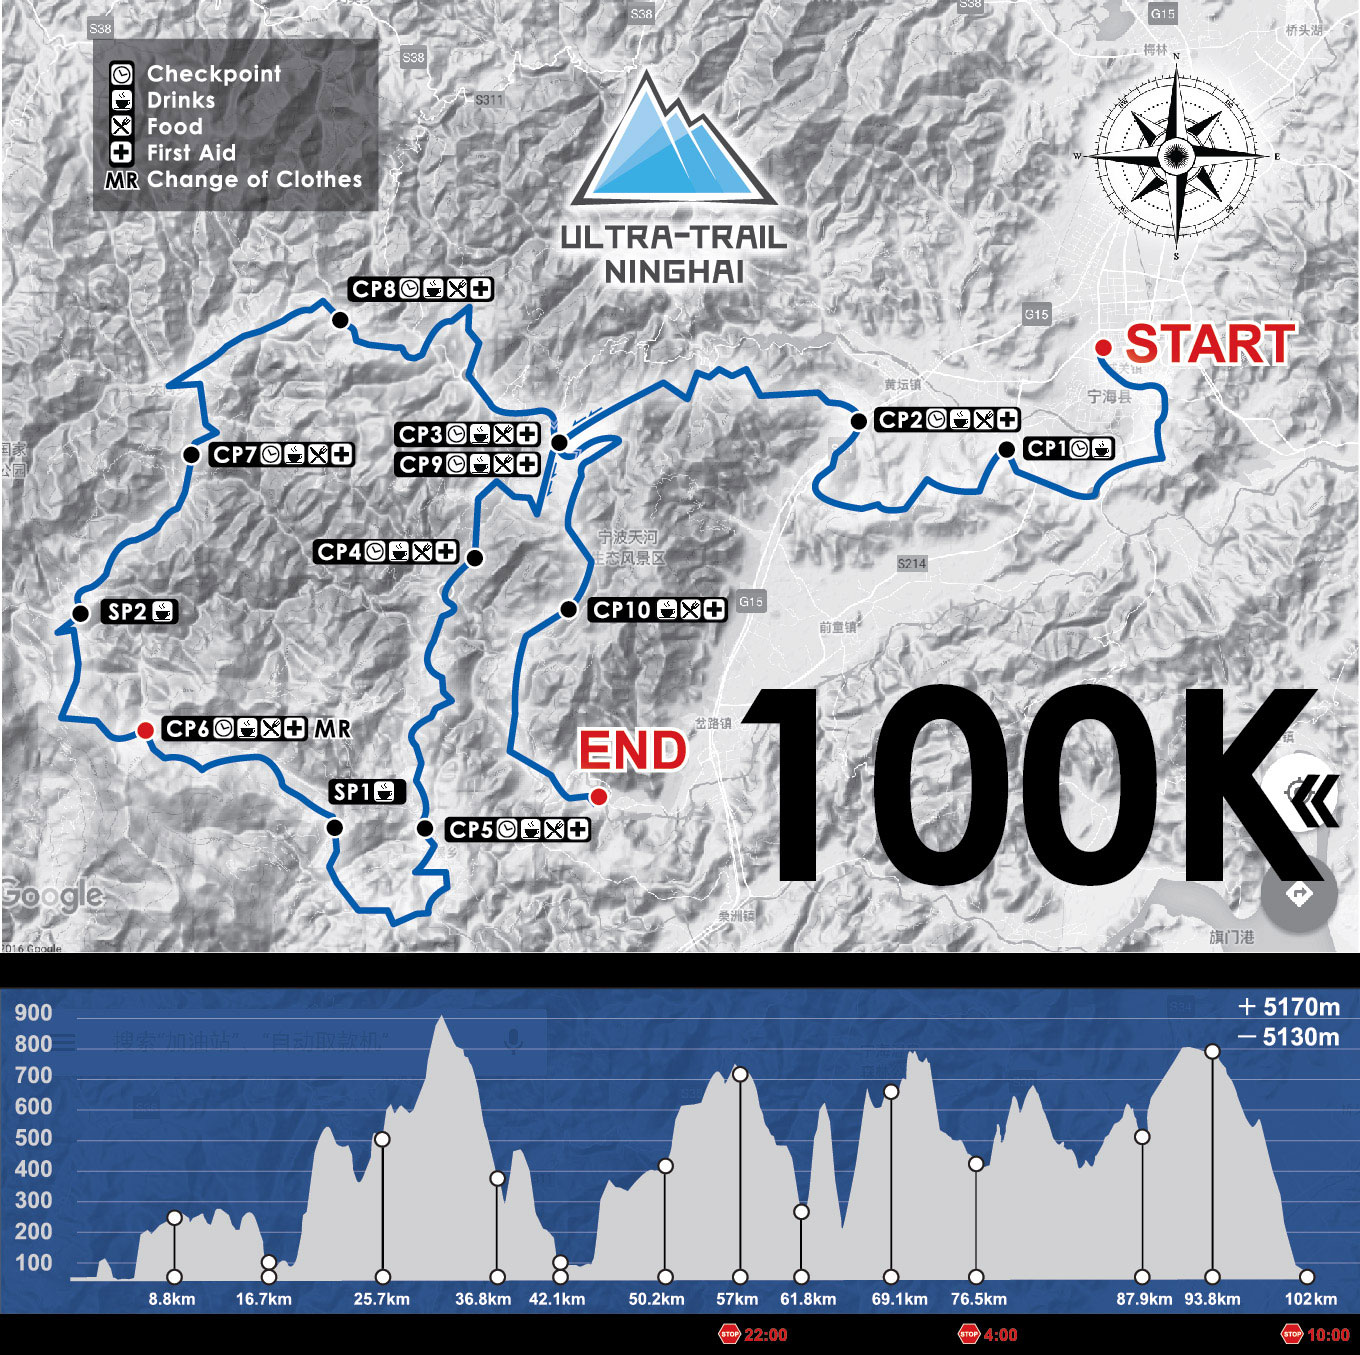
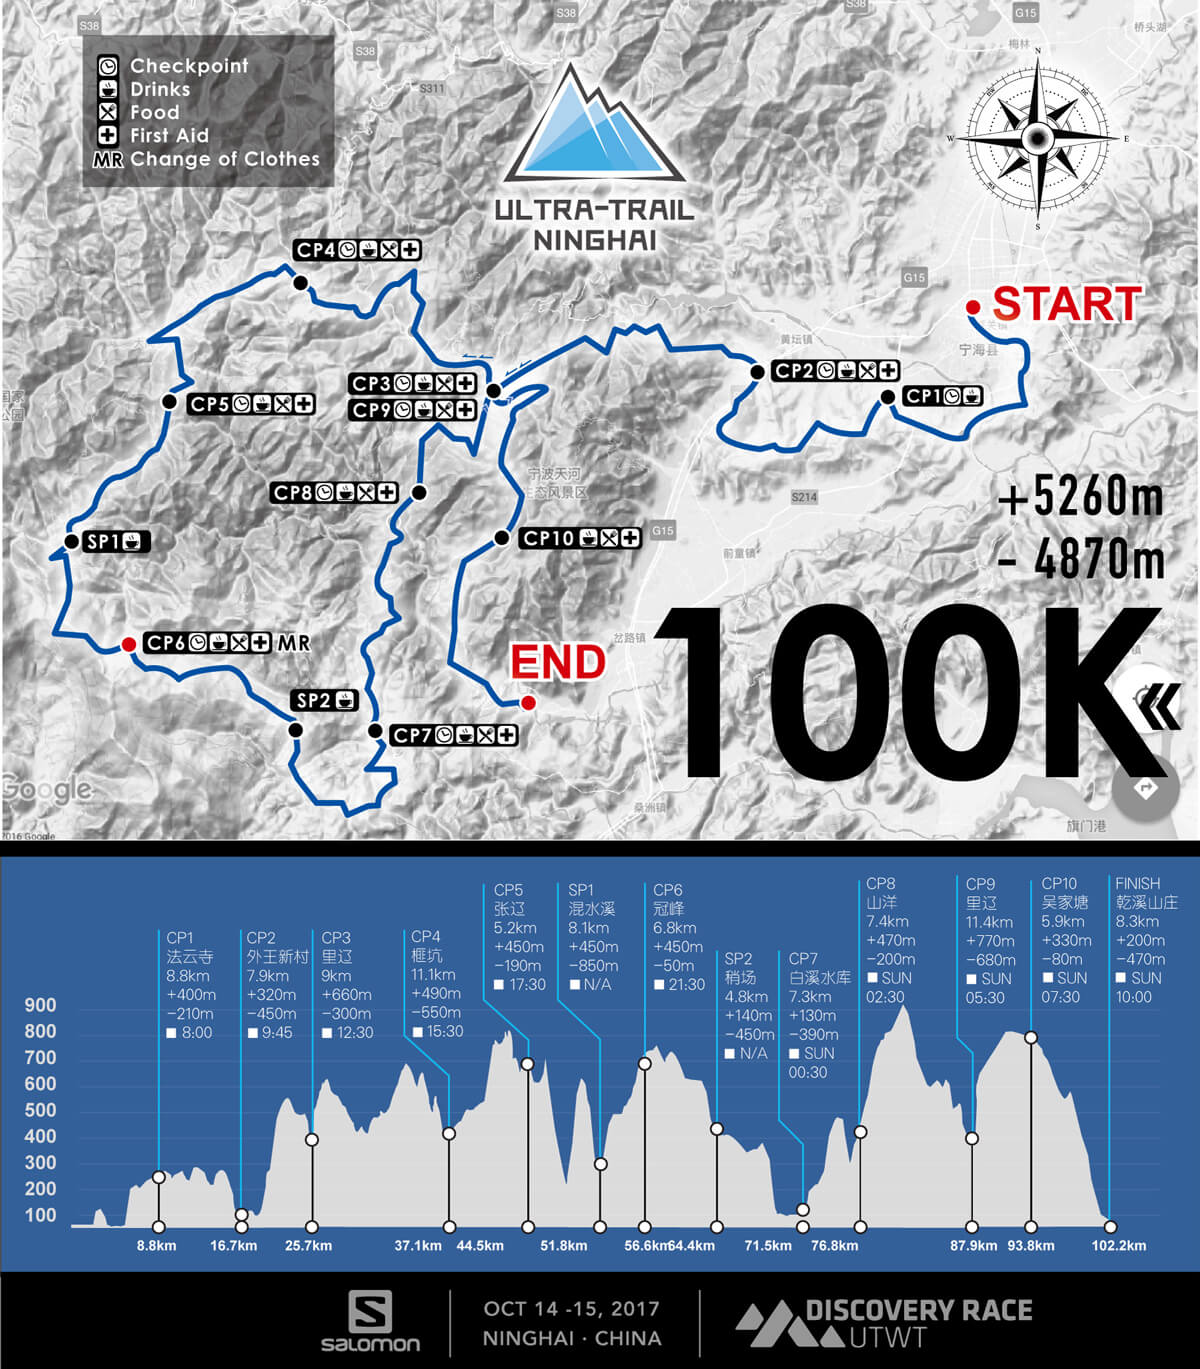
Change maps

diff --git a/src/pages/ultra-trail-registration.html b/src/pages/ultra-trail-registration.html
@@ -55,27 +55,27 @@
                                 <td rowspan="3">第一阶段<br>4月18日10:00-5月18日18:00</td>
                                 <td>100公里精英</td>
                                 <td rowspan="2">450人</td>
-                                <td>人民币950元/人</td>
+                                <td>人民币980元/人</td>
                             </tr>
                             <tr>
                                 <td>100公里</td>
-                                <td>人民币1050元/人</td>
+                                <td>人民币1080元/人</td>
                             </tr>
                             <tr>
                                 <td>50公里</td>
                                 <td>800人</td>
-                                <td>人民币550元/人</td>
+                                <td>人民币580元/人</td>
                             </tr>
                             <tr>
                                 <td rowspan="2">第二阶段<br/>7月18日10:00-9月15日18:00</td>
                                 <td>100公里</td>
                                 <td>50人</td>
-                                <td>人民币1250元/人</td>
+                                <td>人民币1280元/人</td>
                             </tr>
                             <tr>
                                 <td>50公里</td>
                                 <td>100人</td>
-                                <td>人民币750元/人</td>
+                                <td>人民币780元/人</td>
                             </tr>
                         </tbody>
                     </table>
@@ -166,27 +166,27 @@
                                 <td rowspan="3">First Stage<br>10:00 on April 18th to 18:00 on May 18th</td>
                                 <td>100km Elite</td>
                                 <td rowspan="2">450</td>
-                                <td>950 RMB</td>
+                                <td>980 RMB</td>
                             </tr>
                             <tr>
                                 <td>100km Individual</td>
-                                <td>1050 RMB</td>
+                                <td>1080 RMB</td>
                             </tr>
                             <tr>
                                 <td>50km Individual</td>
                                 <td>800</td>
-                                <td>550 RMB</td>
+                                <td>580 RMB</td>
                             </tr>
                             <tr>
                                 <td rowspan="2">Second Stage<br/>10:00 on July 18th to 18:00 on September 15th</td>
                                 <td>100km Individual</td>
                                 <td>50</td>
-                                <td>1250 RMB</td>
+                                <td>1280 RMB</td>
                             </tr>
                             <tr>
                                 <td>50km Individual</td>
                                 <td>100</td>
-                                <td>750 RMB</td>
+                                <td>780 RMB</td>
                             </tr>
                         </tbody>
                     </table>

diff --git a/src/pages/lijiang/lijiang-skyview-sponsor.html b/src/pages/lijiang/lijiang-skyview-sponsor.html
@@ -4,48 +4,40 @@
 <div class="page-detail container-fluid">
     <div class="row">
         <div class="col-xs-12 col-md-12">
-            <h3 class="text-center">Sponsors</h3>
+            <h3 class="text-center">顶级赞助商 TOP Sponsors</h3>
         </div>
     </div>
     <div class="row">
-        <div class="col-xs-12 col-md-8 col-md-offset-2">
+        <div class="col-xs-12 col-md-12">
+            <p><img src="/assets/lijiang-sponsor1.png" class="img-responsive center-block" alt=""></p>
+        </div>
+    </div>
+    <div class="row">
+        <div class="col-xs-12 col-md-12">
+            <h3 class="text-center">官方赞助商 Sponsors</h3>
+        </div>
+    </div>
+    <div class="row">
+        <div class="col-xs-12 col-md-12">
+            <p><img src="/assets/lijiang-sponsor2.png" class="img-responsive center-block" alt=""></p>
+        </div>
+    </div>
+    <div class="row">
+        <div class="col-xs-12 col-md-4 col-md-offset-2">
             <div class="row">
-                <div class="col-xs-12 col-md-4">
-                    <p><img src="/assets/sponsor1.png" class="img-responsive center-block" alt=""></p>
-                </div>
-                <div class="col-xs-12 col-md-4">
-                    <p><img src="/assets/sponsor2.png" class="img-responsive center-block" alt=""></p>
-                </div>
-                <div class="col-xs-12 col-md-4">
-                    <p><img src="/assets/sponsor3.png" class="img-responsive center-block" alt=""></p>
-                </div>
+                <h3 class="text-center">合作伙伴 Partners</h3>
+            </div>
+            <div class="row">
+                <p><img src="/assets/lijiang-sponsor3.png" class="img-responsive center-block" alt=""></p>
             </div>
         </div>
-    </div>
-    <div class="row">
-        <div class="col-xs-12 col-md-12">
-            <h3 class="text-center">Suppliers</h3>
+        <div class="col-xs-12 col-md-4">
+            <div class="row">
+                <h3 class="text-center">赛事认证 Race Certification</h3>
+            </div>
+            <div class="row">
+                <p><img src="/assets/lijiang-sponsor4.png" class="img-responsive center-block" alt=""></p>
+            </div>
         </div>
-    </div>
-    <div class="row">
-        <div class="col-xs-12 col-md-4 col-md-offset-4">
-            <p><img src="/assets/sponsor4.png" class="img-responsive center-block" alt=""></p>
-        </div>
-    </div>
-    <div class="row">
-        <div class="col-xs-12 col-md-12">
-            <h3 class="text-center">Partners</h3>
-        </div>
-    </div>
-    <div class="row">
-        <div class="col-xs-12 col-md-12">
-            <p><img src="/assets/zgscs6.png" class="img-responsive center-block" alt=""></p>
-        </div>
-        <!--<div class="col-xs-12 col-md-4">
-            <img src="/assets/aqslogo.png" class="img-responsive center-block" alt="">
-        </div>-->
-        <!--<div class="col-xs-12 col-md-4">
-            <img src="/assets/LIJIANG-SKYVIEW-01.jpg" class="img-responsive center-block" alt="">
-        </div>-->
     </div>
 </div>

diff --git a/src/pages/ultra-trail-course.html b/src/pages/ultra-trail-course.html
@@ -3,32 +3,27 @@
 </div>
 <div class="page-detail container-fluid">
     <div class="row">
-        <div class="col-md-12 col-xs-12">
-            <p>Coming</p>
+        <div class="col-xs-12 col-md-6">
+            <p>&lt;50km&gt;
+                <br/>Distance: 49.2km
+                <br>Ascent: 2550m
+                <br>Descent: 2443m
+                <br>Cut-off: 11 hours
+                <!--<br><a target="_blank" href="/download.php?f=ULTRA-TRAIL_NINGHAI_map_100k">Download the GPX file, Click here</a>-->
+                <!--<br><span class="text-danger">（Please be cautious to use this file in Garmin watches.）</span>-->
+            </p>
+            <p><img src="/assets/ULTRA-TRAIL_NINGHAI_map_42k.jpg?1" class="img-responsive" alt=""></p>
         </div>
-        <!--<div class="col-xs-12 col-md-6">
+        <div class="col-xs-12 col-md-6">
             <p>&lt;100km&gt;
-                <br/>Group: Ultra-Trail Ninghai
-                <br/>Distance: 102km
-                <br>Ascent: 5170m
-                <br>Descent: 5130m
+                <br>Distance: 102.2km
+                <br>Ascent: 5260m
+                <br>Descent: 4870m
                 <br>Cut-off: 28 hours
-                <br><a target="_blank" href="/download.php?f=ULTRA-TRAIL_NINGHAI_map_100k">Download the GPX file, Click here</a>
-                <br><span class="text-danger">（Please be cautious to use this file in Garmin watches.）</span>
+                <!--<br><a target="_blank" href="/download.php?f=ULTRA-TRAIL_NINGHAI_map_42k">Download the GPX file, Click here</a>-->
+                <!--<br><span class="text-danger">（Please be cautious to use this file in Garmin watches.）</span>-->
             </p>
             <p><img src="/assets/ULTRA-TRAIL_NINGHAI_map_100k.jpg?1" class="img-responsive" alt=""></p>
         </div>
-        <div class="col-xs-12 col-md-6">
-            <p>&lt;42km&gt;
-                <br/>Group: Trail Marathon
-                <br/>Distance: 42km
-                <br>Ascent: 2260m
-                <br>Descent: 2200m
-                <br>Cut-off: 10 hours
-                <br><a target="_blank" href="/download.php?f=ULTRA-TRAIL_NINGHAI_map_42k">Download the GPX file, Click here</a>
-                <br><span class="text-danger">（Please be cautious to use this file in Garmin watches.）</span>
-            </p>
-            <p><img src="/assets/ULTRA-TRAIL_NINGHAI_map_42k.jpg?1" class="img-responsive" alt=""></p>
-        </div>-->
     </div>
 </div>

diff --git a/src/pages/ultra-trail-regulation.html b/src/pages/ultra-trail-regulation.html
@@ -244,17 +244,10 @@
                         <!--<td>Sat.7:30 a.m - Sun.8:00 a.m</td>-->
                         <td>星期日07:30</td>
                     </tr>
-                    <!--<tr>
-                        <td>CP10</td>
-                        <td>吴家塘</td>
-                        <td>93.8</td>
-                        <td>Sat.11:30 am - Sun.9:00 a.m</td>
-                        <td></td>
-                    </tr>-->
                     <tr>
                         <td>100km Finish</td>
                         <td>乾溪山庄</td>
-                        <td>102</td>
+                        <td>102.2</td>
                         <!--<td>Before Sat. 14:00 a.m - Sun.11:00 a.m</td>-->
                         <td>星期日10:00<br>(100km: 28h)</td>
                     </tr>
@@ -296,13 +289,13 @@
                         <td>12:30</td>
                     </tr>
                     <tr>
-                        <td>CP4</td>
+                        <td>SP3</td>
                         <td>白沙林场</td>
                         <td>33</td>
                         <td>N/A</td>
                     </tr>
                     <tr>
-                        <td>CP5</td>
+                        <td>CP10</td>
                         <td>吴家塘</td>
                         <td>40.9</td>
                         <td>15:30</td>
@@ -584,7 +577,7 @@
                     <tr>
                         <td>Finish</td>
                         <td>Qianxi Villa</td>
-                        <td>102</td>
+                        <td>102.2</td>
                         <!--<td>Sat.14:00 a.m - Sun.11:00 a.m</td>-->
                         <td>Sun 10:00<br>(100km: 28h)</td>
                     </tr>
@@ -626,13 +619,13 @@
                         <td>12:30</td>
                     </tr>
                     <tr>
-                        <td>CP4</td>
+                        <td>SP3</td>
                         <td>Baisha Forestry</td>
                         <td>33</td>
                         <td>N/A</td>
                     </tr>
                     <tr>
-                        <td>CP5</td>
+                        <td>CP10</td>
                         <td>Wujiatang</td>
                         <td>40.9</td>
                         <td>15:30</td>

diff --git a/src/pages/home.html b/src/pages/home.html
@@ -43,9 +43,9 @@
             </div>
 
             <div class="visible-xs-block visible-sm-block mobile-home-page">
-                <div class="item">
+                <!--<div class="item">
                     <img src="/assets/carousel6.jpg" class="img-responsive" alt="...">
-                </div>
+                </div>-->
                 <div class="item">
                     <img src="/assets/carousel2.jpg" class="img-responsive" alt="...">
                 </div>
@@ -55,9 +55,9 @@
                 <div class="item">
                     <img src="/assets/carousel4.jpg" class="img-responsive" alt="...">
                 </div>
-                <div class="item">
+                <!--<div class="item">
                     <img src="/assets/carousel5.jpg" class="img-responsive" alt="...">
-                </div>
+                </div>-->
             </div>
         </div>
     </div>

diff --git a/src/pages/spectators.html b/src/pages/spectators.html
@@ -7,5 +7,6 @@
     <p>Ultra Trail Ninghai to join officially the UTWT as Discovery Race in 2017</p>
     <p>The new label 'Discovery Race' is truly an invitation to travel, dicsover new cultures and experiences. The 'Discovery Races' don't count for the competition and this is not the reason why runners from all over the world will come. They will choose
         Ultra Trail Ninghai because they are assured that the race is an experience by itself, well organized, safe.</p>
-    <p>Please visit UTWT：<a href="http://www.ultratrail-worldtour.com" target="_blank">http://www.ultratrail-worldtour.com</a></p>
+    <p>Please visit UTWT：<a href="http://www.ultratrail-worldtour.com/races/ultra-trail-ninghai/" target="_blank">http://www.ultratrail-worldtour.com/races/ultra-trail-ninghai/</a></p>
+    <p><img src="/assets/carousel2.jpg" alt="" class="img-responsive center-block"></p>
 </div>
